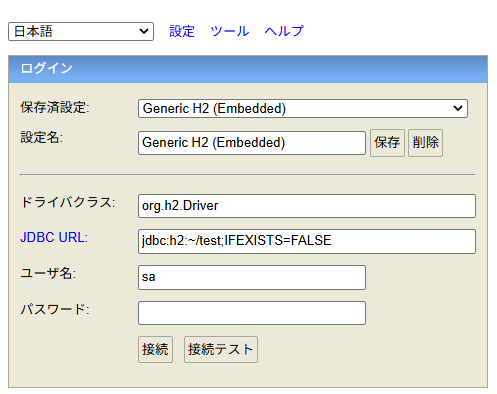
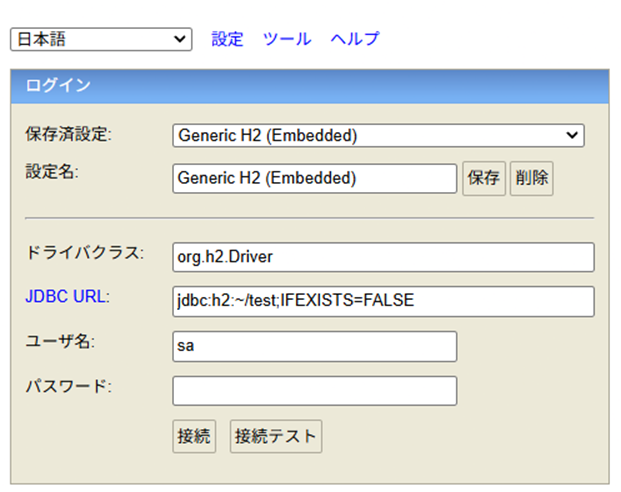
2026102601

diff --git a/H2DataBase/H2Database.html b/H2DataBase/H2Database.html
@@ -29,81 +29,80 @@
                     <ul class="nav flex-column">
                         <li class="nav-item mb-2"><a href="#section1" class="nav-link text-white p-0">１，H2データベースの概要</a></li>
                         <li class="nav-item mb-2"><a href="#section2" class="nav-link text-white p-0">２，H2データベースのダウンロード・インストール</a></li>
-                        <li class="nav-item mb-2"><a href="#section3" class="nav-link text-white p-0">目次項目 3</a></li>
-                        <li class="nav-item mb-2"><a href="#section4" class="nav-link text-white p-0">目次項目 4</a></li>
-                        <li class="nav-item mb-2"><a href="#section5" class="nav-link text-white p-0">目次項目 5</a></li>
+                        <li class="nav-item mb-2"><a href="#section3" class="nav-link text-white p-0">３，H2データベースの接続</a></li>
                     </ul>
                 </nav>
 
                 <!-- 中央の解説エリア (10/12 = 約83.3% ※ここがスクロール) -->
                 <main class="col-10 custom-main p-4 overflow-y-auto h-100">
                     <section id="section1" class="content-section">
-                        <h2 class="BlueChar">１、H2データベースの概要</h2>
-                        <div>
-                            H2データベースは、「ローカル開発」「単体・結合テスト」「プロトタイプの作成」において最大の効果を発揮します。<br>
-                            一方で、高負荷が予想される商用サービスの本番環境や、本番DBと完全に同一の挙動が求められるシステムにおいては、最初から本番同等のRDBMS（Dockerコンテナ等を利用）を使用する方が安全です。
+                        <div class="Box_Container">
+                            <h2 class="BlueChar">１、H2データベースの概要</h2>
+                            <div>
+                                H2データベースは、「ローカル開発」「単体・結合テスト」「プロトタイプの作成」において最大の効果を発揮します。<br>
+                                一方で、高負荷が予想される商用サービスの本番環境や、本番DBと完全に同一の挙動が求められるシステムにおいては、最初から本番同等のRDBMS（Dockerコンテナ等を利用）を使用する方が安全です。
+                            </div>
                         </div>
                     </section>
 
                     <section id="section2" class="content-section">
-                        <h2 class="BlueChar">２，H2データベースのダウンロード・インストール</h2>
-                        <div>
-                            <b class="BlueChar">１，ダウンロード</b>
-                        </div>
-                        <div class="d-flex align-items-center gap-3">
-                            <!-- 左側：写真 -->
+                        <div class="Box_Container">
                             <div>
-                                <img src="./H2IMG/H2ダウンロード.png" alt="H2HP" class="img-fluid">
+                                <h2 class="BlueChar">２，H2データベースのダウンロード・インストール</h2>
                             </div>
-                            <!-- 右側：解説 -->
-                            <div class="flex-grow-1">
-                                <p><a href="https://h2database.com/html/main.html" target="_blank" rel="noopener noreferrer">H2 Database 公式サイト</a></p>
-                                <p><b class="BlueChar">https://h2database.com/html/main.html</b></p>
-                                <p>Windowsインストーラを使うと楽ですよ。</p>
+                            <div>
+                                <b class="BlueChar">１，ダウンロード</b>
                             </div>
-                        </div>
+                            <div class="d-flex align-items-center gap-3">
+                                <!-- 左側：写真 -->
+                                <div>
+                                    <img src="./H2IMG/H2ダウンロード.png" alt="H2HP" class="img-fluid">
+                                </div>
+                                <!-- 右側：解説 -->
+                                <div class="flex-grow-1">
+                                    <p><a href="https://h2database.com/html/main.html" target="_blank" rel="noopener noreferrer">H2 Database 公式サイト</a></p>
+                                    <p><b class="BlueChar">https://h2database.com/html/main.html</b></p>
+                                    <p>Windowsインストーラを使うと楽ですよ。</p>
+                                </div>
+                            </div><br>
 
-                        <div>
-                            <b class="BlueChar">２，インストール</b>
-                        </div>
-                        <div class="d-flex align-items-center gap-3">
-                            <!-- 左側：写真 -->
                             <div>
-                                <img src="./H2IMG/H2インストール 警告.png" alt="インストール時警告" class="img-fluid">
+                                <b class="BlueChar">２，インストール</b>
                             </div>
-                            <!-- 右側：解説 -->
-                            <div class="flex-grow-1">
-                                「Windows によって PC が保護されました」の警告が出た場合、<br>
-                                「詳細情報」をクリックすると、<br>
-                                下に「OK」ボタンが表示されます。<br>
-                                この「OK」ボタンをクリックします。<br>
-                            </div>
-                        </div>
-
-                        <div class="Box_Normal">
-                            <div>
-                                <b class="BlueChar">３，設定</b>
-                            </div>
-                            <div>
-                                <p><a href="https://h2database.com/html/quickstart.html" target="_blank" rel="noopener noreferrer">クイックスタート</a></p>
-                                <p><b class="BlueChar">https://h2database.com/html/quickstart.html</b></p>
+                            <div class="d-flex align-items-center gap-3">
+                                <!-- 左側：写真 -->
+                                <div>
+                                    <img src="./H2IMG/H2インストール 警告.png" alt="インストール時警告" class="img-fluid">
+                                </div>
+                                <!-- 右側：解説 -->
+                                <div class="flex-grow-1">
+                                    「Windows によって PC が保護されました」の警告が出た場合、<br>
+                                    「詳細情報」をクリックすると、<br>
+                                    下に「OK」ボタンが表示されます。<br>
+                                    この「OK」ボタンをクリックします。<br>
+                                </div>
                             </div>
                         </div>
                     </section>
 
                     <section id="section3" class="content-section">
-                        <h2>解説セクション 3</h2>
-                        <p>Bootstrapのユーティリティクラス（<code>vh-100</code>や<code>overflow-hidden</code>など）を組み合わせることで、高さを画面全体に固定したレイアウトが容易になります。</p>
-                    </section>
-
-                    <section id="section4" class="content-section">
-                        <h2>解説セクション 4</h2>
-                        <p>デザインや配色の微調整は、これまで通り <code>css/styleh2.css</code> に記述して上書き・拡張が可能です。</p>
-                    </section>
-
-                    <section id="section5" class="content-section">
-                        <h2>解説セクション 5</h2>
-                        <p>最後のセクションです。必要に応じて <code>col-3</code> と <code>col-9</code> に変更すれば3:9の比率にも簡単に切り替えられます。</p>
+                        <div class="Box_Container">
+                            <div>
+                                <h2 class="BlueChar">３，H2データベースの接続</h2>
+                            </div>
+                            <div class="d-flex align-items-center gap-3">
+                                <div class="d-flex align-items-center gap-3">
+                                    <!-- 左側：写真 -->
+                                    <div>
+                                        <img src="./H2IMG/H2設定.png" alt="設定" class="img-fluid">
+                                    </div>
+                                    <!-- 右側：解説 -->
+                                    <div class="flex-grow-1">
+                                        左図の様に設定すればDBに接続できますよ。
+                                    </div>
+                                </div>
+                            </div>
+                        </div>
                     </section>
                 </main>
 

diff --git a/H2DataBase/H2CSS/boxdesign.css b/H2DataBase/H2CSS/boxdesign.css
@@ -23,3 +23,11 @@
    background-color: ivory;
    padding: 5px;
 }
+
+ /* NormalBox   */
+.Box_Container {
+   background-color: floralwhite;
+   margin:20px;
+   padding: 20px;
+   border: 2px solid silver;
+}
